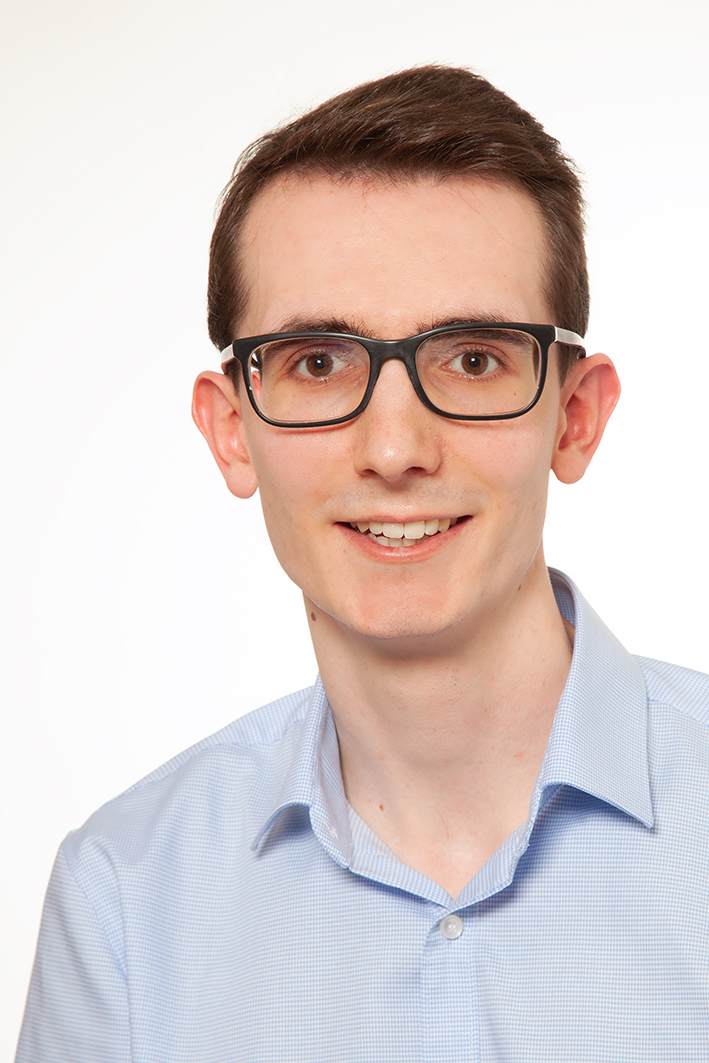
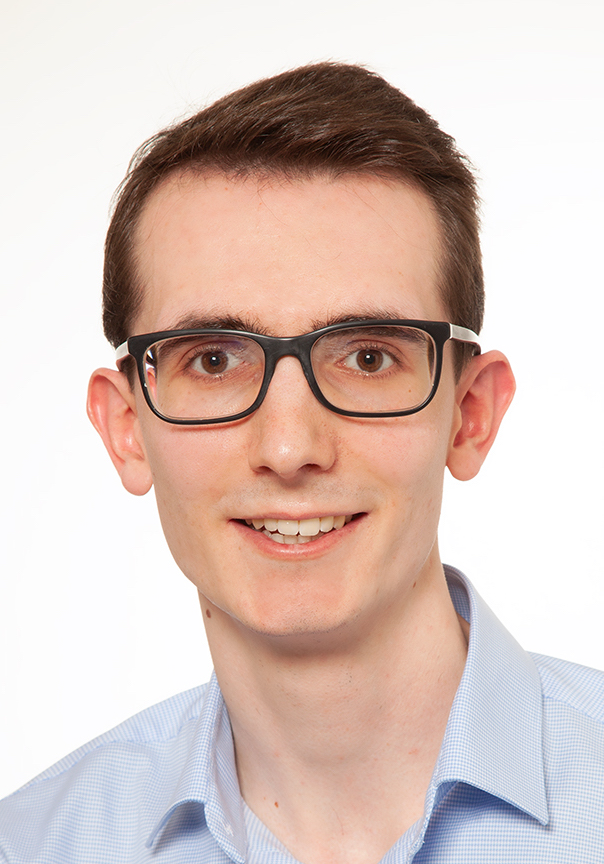
updates

diff --git a/index.html b/index.html
@@ -5672,7 +5672,7 @@ We have focused our research directions to develop fully-automated, high accurat
     
     
       
-      <a href="/authors/tobias-bernecker/"><img class="avatar avatar-circle" src="/authors/tobias-bernecker/avatar_hu035d48a989d58a4182c48a322cfba811_491107_270x270_fill_q90_lanczos_center.jpg" alt="Avatar"></a>
+      <a href="/authors/tobias-bernecker/"><img class="avatar avatar-circle" src="/authors/tobias-bernecker/avatar_huf3aafa14f706b3a9d5fa5f37ea4185bb_366553_270x270_fill_q90_lanczos_center.jpg" alt="Avatar"></a>
     
 
     <div class="portrait-title">

diff --git a/authors/tobias-bernecker/_indexold/index.html b/authors/tobias-bernecker/_indexold/index.html
@@ -884,7 +884,7 @@
   <div class="media author-card content-widget-hr">
     
       
-      <img class="avatar mr-3 avatar-circle" src="/authors/tobias-bernecker/avatar_hu035d48a989d58a4182c48a322cfba811_491107_270x270_fill_q90_lanczos_center.jpg" alt="Tobias Bernecker">
+      <img class="avatar mr-3 avatar-circle" src="/authors/tobias-bernecker/avatar_huf3aafa14f706b3a9d5fa5f37ea4185bb_366553_270x270_fill_q90_lanczos_center.jpg" alt="Tobias Bernecker">
     
 
     <div class="media-body">

diff --git a/authors/tobias-bernecker/index.html b/authors/tobias-bernecker/index.html
@@ -704,7 +704,7 @@
 
       
       
-      <img class="avatar avatar-circle" src="/authors/tobias-bernecker/avatar_hu035d48a989d58a4182c48a322cfba811_491107_270x270_fill_q90_lanczos_center.jpg" alt="Tobias Bernecker">
+      <img class="avatar avatar-circle" src="/authors/tobias-bernecker/avatar_huf3aafa14f706b3a9d5fa5f37ea4185bb_366553_270x270_fill_q90_lanczos_center.jpg" alt="Tobias Bernecker">
       
 
       <div class="portrait-title">

diff --git a/talk/dart2019/index.html b/talk/dart2019/index.html
@@ -1175,7 +1175,7 @@
       
       <li><a href="/slides/_example/">AI meets COVID-19</a></li>
       
-      <li><a href="/slides/pres/">Preliminary Meeting for the seminar on Federated Learning in Healthcare</a></li>
+      <li><a href="/slides/federated/">Preliminary Meeting for the seminar on Federated Learning in Healthcare</a></li>
       
     </ul>
   </div>
